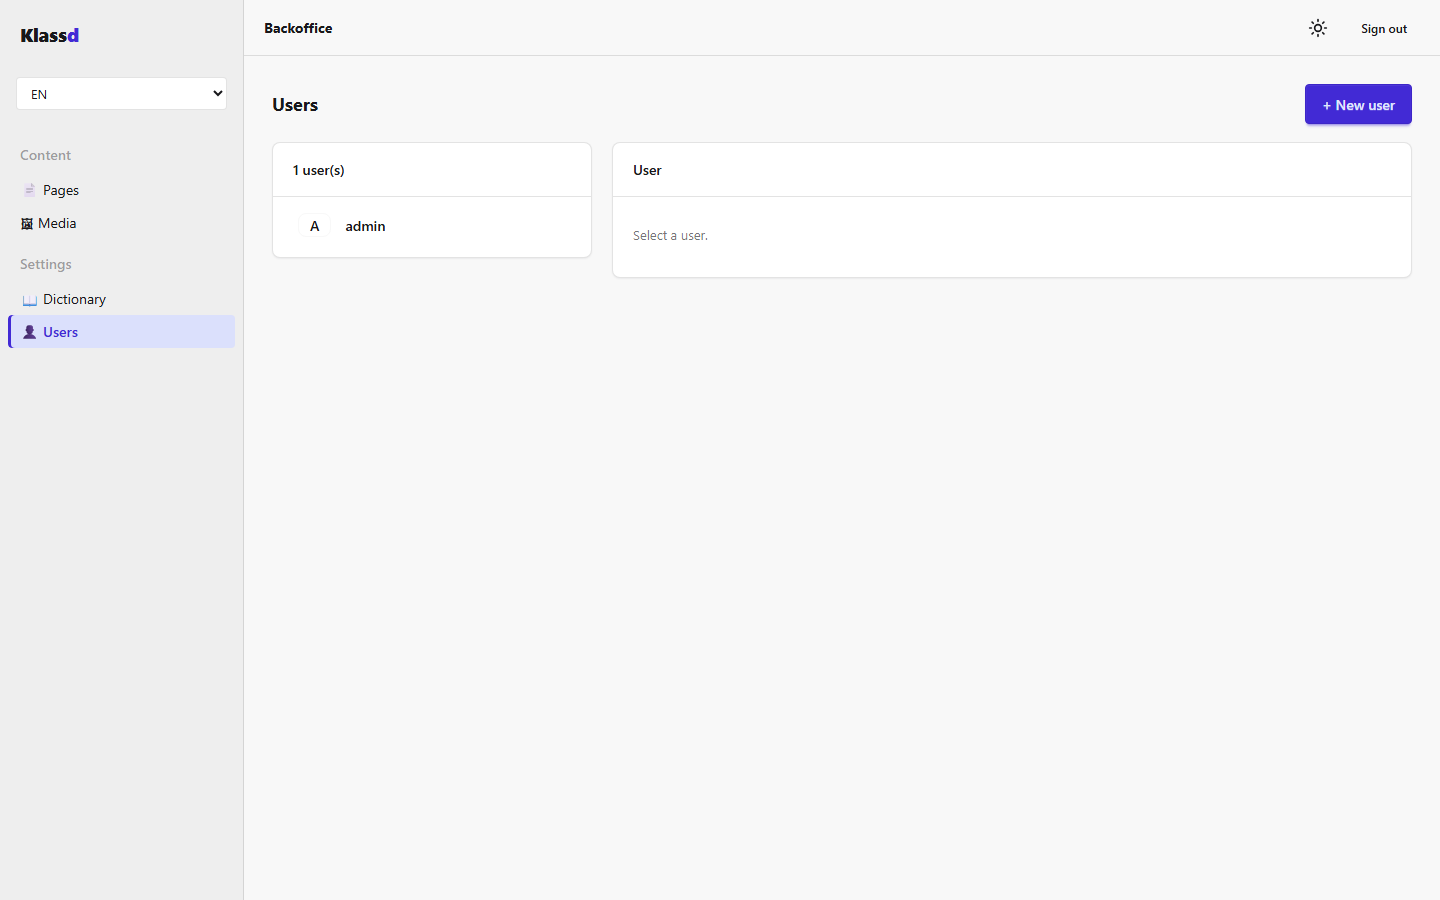
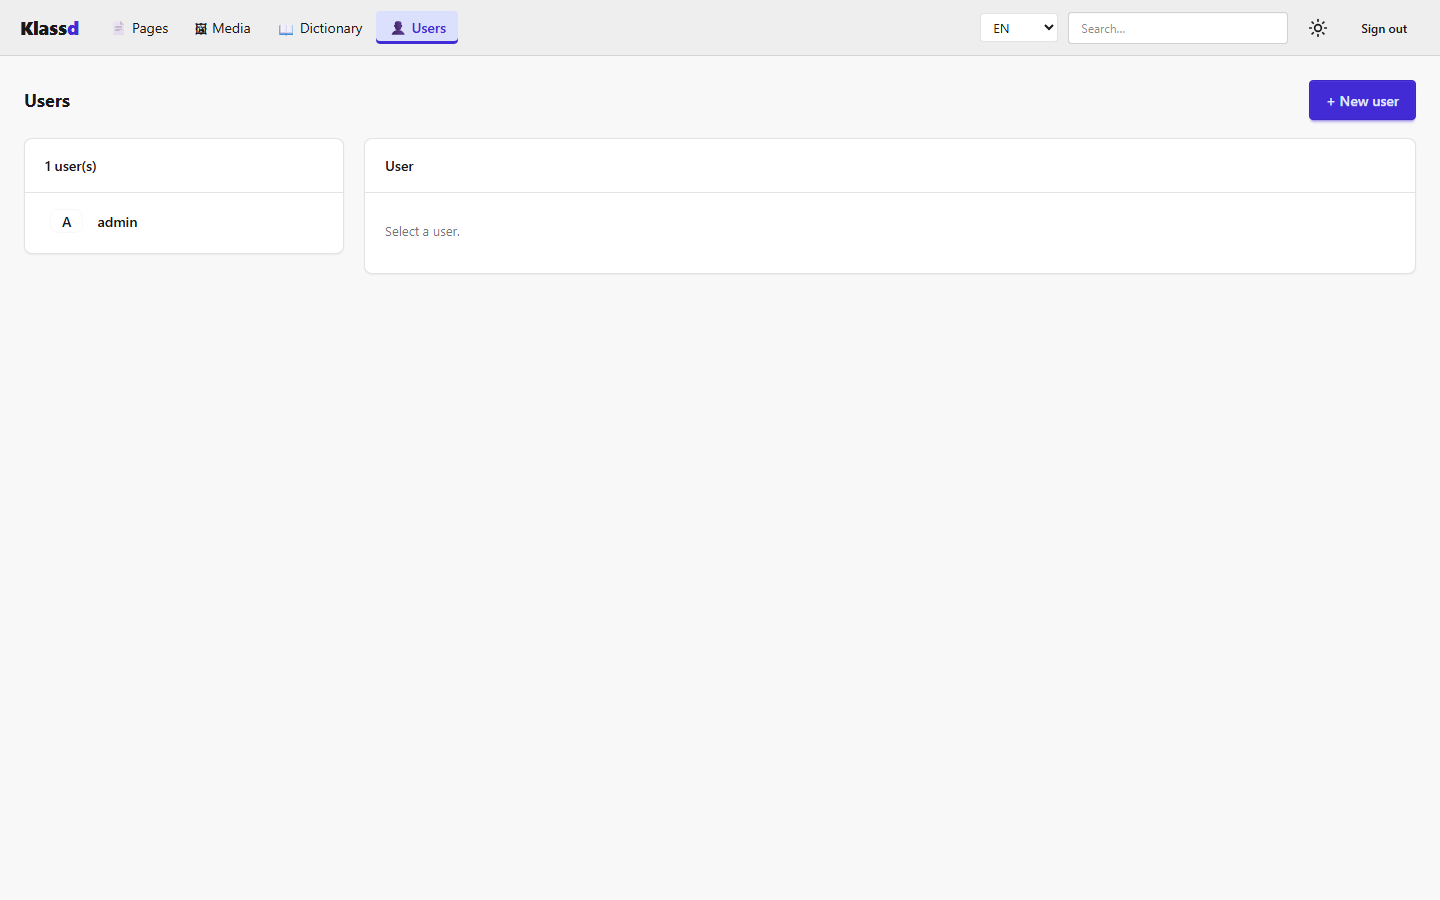
docs: regenerate admin screenshots for top-bar re-layout
Update the Playwright capture utility to the new selectors (inline
.editor-inline editor, .tree-title nodes, "+ New" button, context-tree
headers) and regenerate the README gallery so it shows the top-bar
areas, context-aware side panel and inline editor.

diff --git a/tests/Klassd.UiTests/ScreenshotCaptureTests.cs b/tests/Klassd.UiTests/ScreenshotCaptureTests.cs
@@ -41,10 +41,10 @@ public class ScreenshotCaptureTests : PageTest
     /// <summary>PagesPage is interactive-server; the first click can race the SignalR circuit — retry.</summary>
     private async Task OpenCreatePanelAsync()
     {
-        var panel = Page.Locator(".panel.open");
+        var panel = Page.Locator(".editor-inline");
         for (var attempt = 0; attempt < 15; attempt++)
         {
-            await Page.ClickAsync("button:has-text('New Page')");
+            await Page.ClickAsync("button:has-text('+ New')");
             try
             {
                 await panel.WaitForAsync(new LocatorWaitForOptions { State = WaitForSelectorState.Visible, Timeout = 1500 });
@@ -89,16 +89,16 @@ public class ScreenshotCaptureTests : PageTest
 
         // Persist so the tree isn't empty for the next shot.
         await Page.ClickAsync("button:has-text('Save Page')");
-        await Expect(Page.Locator(".panel.open")).Not.ToBeVisibleAsync();
-        await Expect(Page.Locator(".tree-name:has-text('Home')").First).ToBeVisibleAsync();
+        await Expect(Page.Locator(".editor-inline")).Not.ToBeVisibleAsync();
+        await Expect(Page.Locator(".tree-title:has-text('Home')").First).ToBeVisibleAsync();
 
-        // ── 3. Pages list ─────────────────────────────────────────────
-        await Expect(Page.Locator("h1")).ToHaveTextAsync("Pages");
+        // ── 3. Pages list (top-bar areas + left tree + center detail) ──
+        await Expect(Page.Locator(".context-tree-header h2")).ToHaveTextAsync("Pages");
         await ShotAsync("02-pages.png");
 
-        // ── 4. Media library ──────────────────────────────────────────
+        // ── 4. Media library (left section list + grid) ───────────────
         await Page.GotoAsync(Url("/admin/media"));
-        await Expect(Page.Locator("h1")).ToHaveTextAsync("Media");
+        await Expect(Page.Locator(".context-tree-header h2")).ToHaveTextAsync("Media");
         await ShotAsync("04-media.png");
 
         // ── 5. Users ──────────────────────────────────────────────────
